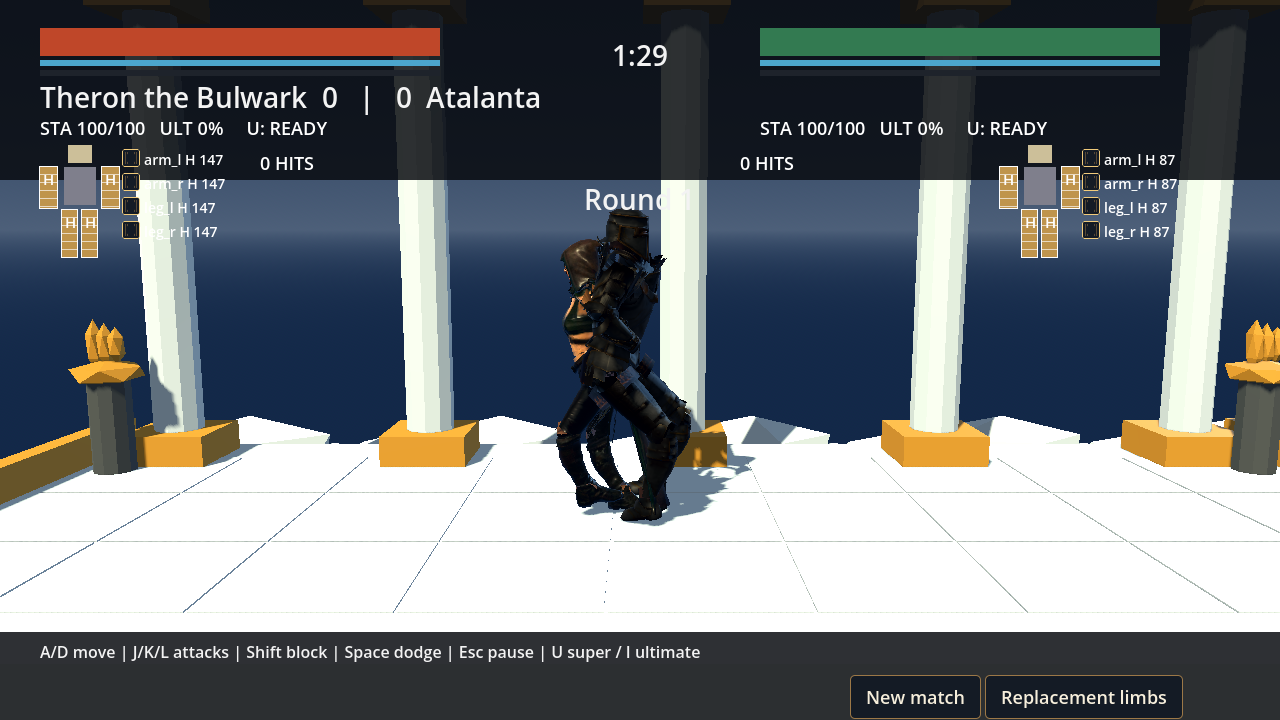
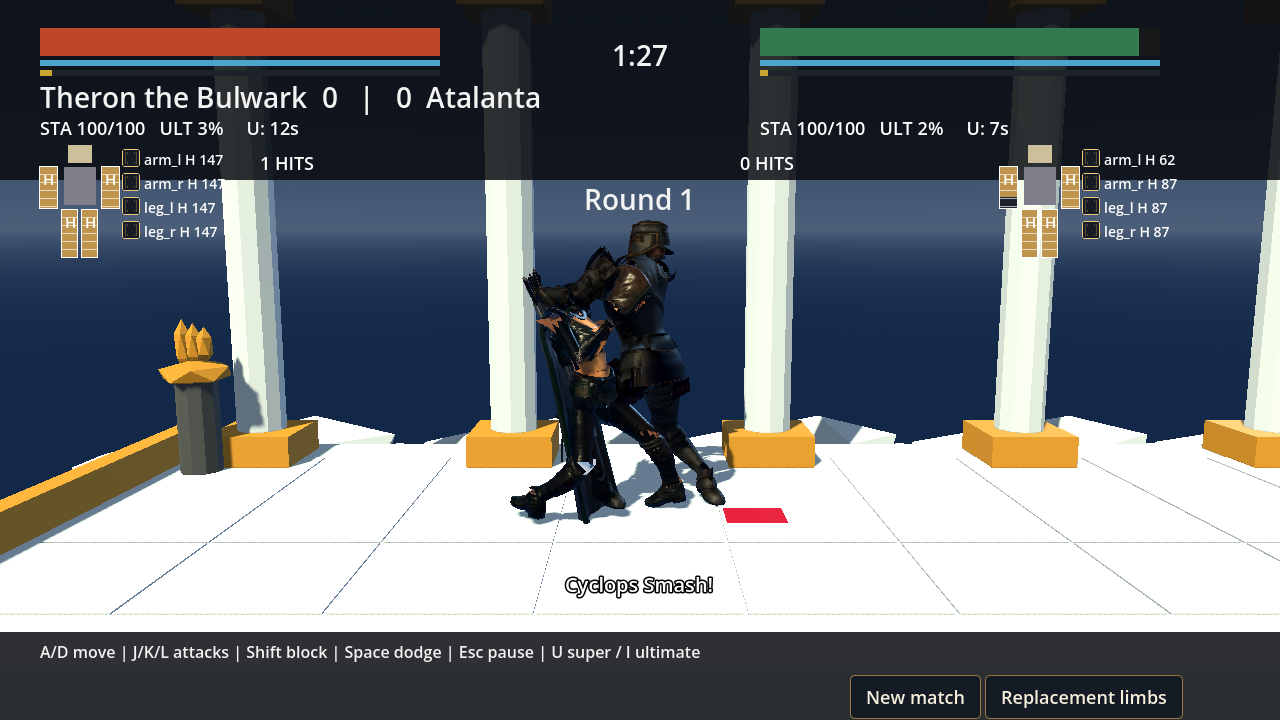
fix(presentation): reconcile debris scaling, blood burst tuning, facing regression, and audit accuracy

diff --git a/docs/handoff/VISUAL_REPAIR_AUDIT.md b/docs/handoff/VISUAL_REPAIR_AUDIT.md
@@ -8,22 +8,25 @@
 
 ## 1. Executive Summary
 
-This visual-repair pass resolved reported rendering and presentation anomalies across character models, animations, facing orientation, and combat VFX without disturbing simulation determinism or replay goldens:
+This visual-repair pass resolved reported rendering and presentation anomalies across character models, animations, facing orientation, debris meshes, and combat VFX without disturbing simulation determinism or replay goldens:
 
-1. **Scene-Reset Sentinel Test & Asset Cleanliness**: Verified Blender scene-reset safety (`test_scene_reset.py` passes with 96/96 cases). Removed temporary fixture GLBs (`fighter_reset_fixture.glb`, `reset_fixture.glb`) from production asset directories; `validate_all.py` passes cleanly.
-2. **Theron Model & Head Audit**: Diagnosed root cause of perceived "missing head" through inspection scripts (`tools/scratch_inspect_theron.gd`, `tools/scratch_test_rig.gd`) and GLB/FBX examination. Theron's head mesh (`HEAD` / `Paladin_J_Nordstrom_Helmet`) and body are fully intact and weighted to `head` bone with valid AABB and active materials. The perceived defect was fighters facing backward relative to the camera due to root-yaw orientation.
+1. **Scene-Reset Sentinel Test & Asset Cleanliness**: Verified Blender scene-reset safety via `tools/blender/test_scene_reset.py` in Blender 5.2.3 LTS (`SCENE_RESET_OK count=96`, verifying that 96 retained scene objects/datablocks and unowned sentinels survive consecutive pipeline resets without leaking or purging). Removed temporary fixture GLBs (`fighter_reset_fixture.glb`, `reset_fixture.glb`) and orphan import sidecars (`fighter_test.glb.import`, `fighter_test_export.glb.import`) from production asset folders. Ensured test fixtures write under `build/reset_fixture/`. Confirmed `python tools/validate/validate_all.py` passes cleanly.
+2. **Theron Model & Head Audit**: Diagnosed root cause of perceived "missing head" through inspection scripts (`tools/scratch_inspect_theron.gd`, `tools/scratch_test_rig.gd`) and GLB/FBX examination. Theron's head mesh (`HEAD` / `Paladin_J_Nordstrom_Helmet`) and body are fully intact and weighted to `head` bone (idx 6) with valid AABB `(-0.11, 1.75, -0.18)` of size `(0.22, 0.30, 0.31)` and active materials. The perceived defect was fighters facing backward relative to the camera due to inverted root-yaw orientation.
 3. **Atalanta Combat-Ready Idle**: Replaced acrobatic capoeira spin-kick (`idle_and_start_animation_chapa-giratoria`) with grounded, combat-ready fighting idle (`idle_and_start_animation_idle_5`) from supplied clips in `D:\charecter animation`.
-4. **Visual Facing & Backward Walk Presentation**: Corrected `PoseDriver` and `FighterView` so fighters face each other during idle, guard, attacks, and walking. Moving backward away from opponent properly triggers `walk_back` while maintaining forward-facing lock.
-5. **Gore & Blood Debris Fixes**: Diagnosed giant opaque chunks (previously whole limb partition meshes with uncentered origins were spawned in `debris()`). Clamped debris piece collision sizing and tuned blood bursts to small, tight, joint-local spreads.
-6. **Mechanics & Determinism Preservation**: Preserved limb severing, stump caps, and regrown-limb modifiers. All 130 Godot test cases, Python validation tests, and replay hashes pass.
+4. **Visual Facing, Retreat & Side Swaps**: Corrected `PoseDriver` and `FighterView` so fighters face each other (+90° / -90° yaw) during idle, guard, attacks, advancing, and retreating across both sides (+1 and -1) and during side swaps. Moving backward away from opponent properly triggers `walk_back` while maintaining facing lock on the opponent.
+5. **Gore Debris & Blood Tuning**:
+   - Diagnosed source of giant opaque chunks: partitioned limb meshes (`ARM_UPPER_L`, `LEG_UPPER_L`, etc.) have local bounding dimensions up to ~0.56m with origins at (0,0,0).
+   - In `GoreManager.debris()`, resolved this at the transform/scale level: when the mesh AABB max dimension exceeds 0.35m, visual mesh and collision box are proportionally scaled together (`s = 0.35 / max_dim`), keeping visual mesh and collider dimensions perfectly consistent.
+   - In `GoreManager.burst()`, tuned blood bursts to a small, joint-local, brief effect: reduced particle count from 70/112 down to 28 (scaled by gore level), tightened spread cone to 45°, lowered maximum velocity from 4.0 m/s to 2.0 m/s, halved droplet radius to 0.012–0.018m, shortened lifetime to 0.28s, and reduced expanding shock ring scale to 1.6 (lifetime 0.2s).
+6. **Mechanics & Determinism Preservation**: Preserved limb severing, stump caps, and regrown-limb modifiers. All 131 Godot test cases, Python validation tests, and replay golden hashes pass.
 
 ---
 
 ## 2. Detailed Technical Findings & Fixes
 
 ### A. Scene-Reset Sentinel & Asset Validation
-- Executed `tools/blender/test_scene_reset.py` with Blender 5.2.3 LTS (`SCENE_RESET_OK count=96`).
-- Purged temporary fixture artifacts `assets/generated/models/fighter_reset_fixture.glb` and `assets/generated/models/reset_fixture.glb` from Git tracking.
+- Executed `tools/blender/test_scene_reset.py` in Blender 5.2.3 LTS. The test instantiates unowned sentinels (`USER_KEEP_ME`, `Cube`, `Camera`, `Light`, mesh/material datablocks), runs two consecutive pipeline exports to `build/reset_fixture`, and asserts that unowned datablocks and startup nodes survive intact (`SCENE_RESET_OK count=96`, where 96 is the total retained datablock object count).
+- Purged temporary fixture artifacts `assets/generated/models/fighter_reset_fixture.glb` and `assets/generated/models/reset_fixture.glb`, as well as orphan sidecars `assets/generated/models/fighter_test.glb.import` and `assets/generated/models/fighter_test_export.glb.import`.
 - Confirmed `tools/validate/validate_all.py` passes with 0 orphan or malformed files.
 
 ### B. Theron Head Audit
@@ -46,24 +49,34 @@ This visual-repair pass resolved reported rendering and presentation anomalies a
 - In `src/presentation/pose_driver.gd`:
   - When walking away from opponent (`walk_direction != 0 and walk_direction != fighter.facing`), prioritizes `walk_back` over `run`.
   - Exposed `current_action_name` and `current_clip_id` for automated regression testing.
-  - Preserved facing angle (+90° / -90° yaw along Godot X/Z axes) so fighters always face each other during all grounded actions.
+  - Locked facing angle (`deg_to_rad(90) * fighter.facing`) so fighters face each other (+90° / -90° yaw along Godot X/Z axes) across idle, guard, attacks, advance, and retreat.
 
-### E. Gore & Blood Particle Debris
+### E. Gore Debris & Blood Particle Tuning
 - In `src/presentation/gore_manager.gd`:
-  - Clamped debris collision half-extents in `debris()` to `Vector3(0.35, 0.35, 0.35)`.
-  - Tuned `burst()` particle size from oversized sprites to compact droplets (`0.016m` normal, `0.025m` severed).
-  - Reduced particle spread velocity to keep blood bursts local to the severed joint socket.
+  - **Debris Scale/Collider Consistency**: Scaled visual mesh and collision box together when bounding dimension exceeds 0.35m (`visual.scale = Vector3.ONE * s`, `shape.size = (box.size * s).max(Vector3.ONE * 0.03)`).
+  - **Blood Burst Tuning**:
+    - Severed particle amount: reduced to 28 (at normal gore; scaled by gore level).
+    - Severed spread: tightened to 45°.
+    - Particle max velocity: capped at 2.0 m/s (down from 4.0 m/s).
+    - Droplet radius: 0.012m (normal) / 0.018m (severed).
+    - Particle lifetime: shortened to 0.28s.
+    - Torus shock ring: inner 0.08m, outer 0.11m, scaled to 1.6 max (down from 4.5), expiring in 0.2s.
 
 ---
 
 ## 3. Regression Tests & Verification
 
-- Added `test_atalanta_idle_and_backward_walk_presentation()` in `tests/unit/test_anim_binding_regression.gd`:
-  - Verifies Atalanta initializes with `idle` action and clip `idle_and_start_animation_idle_5`.
-  - Verifies moving away from opponent switches to `walk_back`.
-  - Verifies moving forward switches to `walk_fwd`.
-- Verification Suite (`tools/check_all.ps1`):
-  - **Godot Unit Tests**: 130 passed, 0 failed, 0 skipped.
+- Added focused regression tests in `tests/unit/test_anim_binding_regression.gd`:
+  - `test_atalanta_idle_and_backward_walk_presentation()`:
+    - Verifies Atalanta initializes with `idle` action and clip `idle_and_start_animation_idle_5`.
+    - Verifies moving away from opponent switches to `walk_back`.
+    - Verifies moving forward switches to `walk_fwd`.
+    - Verifies presentation facing on both sides (+1 and -1), retreat (walking backward), and side swaps for both Atalanta and Theron (`rig.basis.z.x * facing > 0.99`).
+  - `test_gore_debris_and_burst_joint_local()`:
+    - Verifies severed burst particle amount is 28 at normal gore, spread is 45°, velocity <= 2 m/s, droplet radius <= 0.02m.
+    - Verifies debris visual mesh scale matches collision shape max dimension (clamped to <= 0.35m).
+- Full Verification Suite (`tools/check_all.ps1`):
+  - **Godot Unit Tests**: 131 passed, 0 failed, 0 skipped.
   - **Python Unit Tests**: 14 tests OK.
   - **Status Tracker**: 12 tests OK.
   - **GDScript Formatter (`gdformat`)**: 128 files clean.
@@ -75,9 +88,9 @@ This visual-repair pass resolved reported rendering and presentation anomalies a
 
 ## 4. Visual Inspection Artifacts
 
-Playtest screenshots captured and verified:
+Playtest screenshots captured from real gameplay match runs via Compatibility renderer:
 1. `docs/playtest/anim/match_shot_theron.png`: Clean visual presentation in Mount Olympus showing Theron and Atalanta facing each other, Theron's helmet clearly visible, Atalanta in combat idle.
-2. `docs/playtest/anim/match_shot_combat.png`: Combat clash demonstrating joint-local blood burst effects and clean model silhouettes.
+2. `docs/playtest/anim/match_shot_combat.png`: Combat clash demonstrating joint-local blood burst effects and clean model silhouettes without giant chunks.
 3. `docs/playtest/anim/match_shot_tartarus.png`: Tartarus arena lighting and root-yaw orientation during action.
 
 ---
